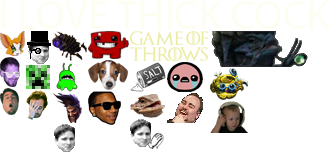
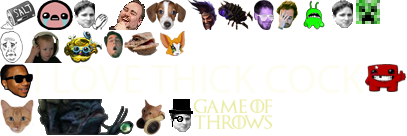
new emotes, now with added aslan, also bumped chat and disabled PICNIC

diff --git a/static/chat/css/style.min.css b/static/chat/css/style.min.css
@@ -1,1 +1,1 @@
-body#chat-embedded{margin:0;padding:0;height:100%;overflow:hidden;min-height:250px;min-width:300px}.chat-output .mCSB_container{margin-right:20px}.chat-output,.chat-lines{-webkit-backface-visibility:hidden;-webkit-perspective:1000;padding:0;margin:0}.chat-lines msg.emote{font-style:italic}.chat-frame{position:relative;width:100%;height:100%}.chat-lines>div{clear:both;word-wrap:break-word;padding-left:5px;padding-bottom:5px}.chat-lines>div.continue{margin-top:-3px}.chat-lines>div .continue{user-select:none;color:#222}.chat-lines>div i.continue{user-select:none;color:#222}.chat-lines>div.failed span{text-decoration:line-through;opacity:.5}.chat-lines a.user{font-weight:bold;cursor:pointer}.chat-lines hr{margin:8px 0}.chat-input,.chat-input-wrap,.chat-tools-wrap{height:30px}.chat-input{background:#2e2e2e;background:-moz-linear-gradient(top,rgba(46,46,46,1) 0,rgba(28,28,28,1) 100%);background:-webkit-gradient(linear,left top,left bottom,color-stop(0%,rgba(46,46,46,1)),color-stop(100%,rgba(28,28,28,1)));background:-webkit-linear-gradient(top,rgba(46,46,46,1) 0,rgba(28,28,28,1) 100%);background:-o-linear-gradient(top,rgba(46,46,46,1) 0,rgba(28,28,28,1) 100%);background:-ms-linear-gradient(top,rgba(46,46,46,1) 0,rgba(28,28,28,1) 100%);background:linear-gradient(to bottom,rgba(46,46,46,1) 0,rgba(28,28,28,1) 100%);width:100%;position:absolute;bottom:0;margin:5px 0 0 0}.chat-tools-wrap{position:absolute;right:0;top:0;margin:0;user-select:none;-moz-user-select:none;-webkit-user-select:none}.chat-input-wrap{margin:0;margin-right:90px;border-radius:0}.chat-input-control{padding:3px 0 0 5px;height:25px;margin:1px;border-radius:3px}.chat-input-control .input{background:0;resize:none;margin:0;padding:0;width:100%;border:0;border-radius:0;box-shadow:none;box-sizing:border-box}.chat-input-control .input:focus{box-shadow:none}.chat-tools-wrap>div{height:30px;overflow:hidden}.chat-tools-wrap .iconbtn{cursor:pointer;width:30px;height:30px;line-height:30px;float:left;display:block;text-align:center}.chat-tools-wrap .iconbtn:hover{background:rgba(255,255,255,0.15)}.chat-tools-wrap .iconbtn:hover i{opacity:.9}.chat-tools-wrap .iconbtn.active{background:rgba(255,255,255,0.25)}.chat-tools-wrap .iconbtn.active i{opacity:1}.chat .chat-lines i[class^="icon-"]{width:16px;line-height:16px;height:16px;margin:0;opacity:1}.chat .chat-lines i.icon-subscriber:hover,.chat .chat-lines i.icon-vip:hover,.chat .chat-lines i.icon-moderator:hover,.chat .chat-lines i.icon-administrator:hover,.chat .chat-lines i.icon-bot:hover,.chat .chat-lines i.icon-error:hover,.chat .chat-lines i.icon-info:hover,.chat .chat-lines i.icon-exclamation:hover,.chat .chat-lines i.icon-status:hover{background-position:top left}.chat .chat-lines i.icon-subscriber{background:url("../img/bobross.png") no-repeat bottom left}.chat .chat-lines i.icon-vip{background:url("../img/leaf.png") no-repeat bottom left}.chat .chat-lines i.icon-moderator{background:url("../img/weather-lightning.png") no-repeat bottom left}.chat .chat-lines i.icon-administrator{background:url("../img/crown.png") no-repeat bottom left}.chat .chat-lines i.icon-bot{background:url("../img/robot.png") no-repeat bottom left}.chat .chat-lines i.icon-error{background:url("../img/exclamation-red.png") no-repeat bottom left}.chat .chat-lines i.icon-info{background:url("../img/question-white.png") no-repeat bottom left}.chat .chat-lines i.icon-exclamation{background:url("../img/exclamation-white.png") no-repeat bottom left}.chat .chat-lines i.icon-status{background:url("../img/information.png") no-repeat bottom left}.chat-frame a.user{color:#a7a7a7}.chat-frame a.user:hover{color:#fafafa}.chat-frame a.subscriber{color:#488ce7}.chat-frame a.subscriber:hover{color:#6aa7f9}.chat-frame a.moderator{color:#429a2d}.chat-frame a.moderator:hover{color:#75e85a}.chat-frame a.vip{color:#cf31e2}.chat-frame a.vip:hover{color:#e564f4}.chat-frame a.admin{color:#b91010}.chat-frame a.admin:hover{color:#f00}.chat-frame a.bot{color:#4ba235}.chat-frame a.bot:hover{color:#7adb62}.chat-input-control input,.chat-lines{font-family:Helvetica,"Trebuchet MS",Verdana,sans-serif;font-size:13px;line-height:20px}.chat-lines>div .p-whisper{font-weight:bold}.chat-lines>div time{font-size:11px}.chat-lines a.externallink{color:#02c2ff}.chat-lines a.externallink:visited{color:#08c}.chat-lines a.externallink:hover,.chat-lines a.externallink:focus{color:#004d74}.chat .chat-lines time,.chat .user-msg i{display:none!important}.chat.chat-time .chat-lines time,.chat.chat-icons .user-msg i,.chat-lines i.icon-subscriber,.chat-lines i.icon-administrator{display:inline-block!important}.chat-theme-dark{background:#080808;border-radius:4px;box-shadow:inset 0 0 5px 5px rgba(0,0,0,0.25)}.chat-theme-dark .chat-input-wrap{border:0}.chat-theme-dark .chat-lines chat{color:#ddd}.chat-theme-dark .chat-lines>div time{color:#414141}.chat-theme-dark .chat-lines>div .p-whisper{color:#900}.chat-theme-dark .chat-lines>div.highlight{color:#fff371}.chat-theme-dark .chat-lines>div.action-msg,.chat-theme-dark .chat-lines>div.error-msg,.chat-theme-dark .chat-lines>div.status-msg,.chat-theme-dark .chat-lines>div.ui-msg{color:#777}.chat-theme-dark .chat-lines>div.own-msg{color:#eaeaea}.chat-theme-dark .chat-input-control{background:#090909;border:0}.chat-theme-dark .chat-input-control input{color:#9e9e9e;background:#090909;text-shadow:none}.chat-theme-dark input:input-placeholder{color:#222}.chat-theme-dark input:-moz-placeholder{color:#222}.chat-theme-dark input:-ms-input-placeholder{color:#222}.chat-theme-dark input::-webkit-input-placeholder{color:#222}.user-tools{width:100%;top:-5px;left:0}.user-tools>div{border-radius:4px;margin:5px 20px 5px 5px}.user-tools-wrap{margin-left:-5px}.user-tools-wrap>a{margin:0 5px}.chat-menu,.user-tools{opacity:0;transition:top .25s ease-out,bottom .25s ease-out,opacity .1s ease-in;position:absolute;font-size:12px}.chat-menu.active,.user-tools.active{opacity:1}.chat-menu{right:20px;bottom:35px;width:240px}.chat-menu.active{bottom:40px}.user-tools.active{top:0}.chat-menu h5,.user-tools h5{text-shadow:-1px -1px 0 rgba(0,0,0,0.25);user-select:none;-moz-user-select:none;-webkit-user-select:none;background:#4f4f4f;background:linear-gradient(to bottom,rgba(79,79,79,1) 0,rgba(46,46,46,1) 100%);border-bottom:1px solid #121212;margin:0;line-height:20px;display:block;padding:5px 10px;border-radius:4px 4px 0 0}.chat-menu .toolbar{width:100%;position:absolute;top:-31px;left:0}.chat-menu h5 .close,.user-tools h5 .close{margin-top:3px}.chat-menu li,.chat-menu label{font-size:12px}.chat-menu label:hover{color:white}.chat-menu .list-wrap,.chat-menu .list-wrap .scrollable{max-height:330px}.chat-menu .list-wrap,.user-tools>div{border-radius:0 0 4px 4px;background:rgba(25,25,25,0.9);padding:0}.chat-menu .list-wrap{margin-top:auto}.chat-menu .list-wrap .scrollable{overflow:hidden}.chat-menu ul,.user-tools .tools{padding:0 10px;margin:10px 0}.chat-menu ul>li:first-child h5{margin-top:0}.chat-menu ul li{text-overflow:ellipsis;overflow:hidden}#chat-user-list h6:first-child{margin-top:10px}#chat-user-list h6{font-weight:bold;margin:0 0 5px 5px}#chat-user-list hr{margin:5px 0}#chat-user-list ul{margin:0}#chat-user-list .user{cursor:pointer}.chat.focus-user .chat-lines>div.user-msg{opacity:.3}.chat.focus-user .chat-lines>div.user-msg.focused,.chat.focus-user .chat-lines>div.user-msg.highlight{opacity:1}.user-tools a#unignoreuser,.user-tools.user-ignored a#ignoreuser{display:none}.user-tools.user-ignored a#unignoreuser{display:inline-block}.chat-login-msg{padding:0 0 0 5px;line-height:25px;color:rgba(255,255,255,0.5);text-shadow:-1px -1px 0 rgba(0,0,0,0.25)}.chat-login-msg:hover{color:rgba(255,255,255,1);text-shadow:0 0 3px rgba(255,255,255,0.25)}.chat-emote{display:inline-block;position:relative;top:10px;margin:0 2px}.chat-emote.chat-emote-Dravewin{width:30px;height:30px;margin-top:-30px;background:url('../img/emoticons.png') no-repeat -52px -93px}.chat-emote.chat-emote-INFESTINY{width:35px;height:30px;margin-top:-30px;background:url('../img/emoticons.png') no-repeat -52px -31px}.chat-emote.chat-emote-FIDGETLOL{width:25px;height:25px;margin-top:-25px;background:url('../img/emoticons.png') no-repeat 0 -31px}.chat-emote.chat-emote-Hhhehhehe{width:35px;height:25px;margin-top:-25px;background:url('../img/emoticons.png') no-repeat -130px -93px}.chat-emote.chat-emote-GameOfThrows{width:79px;height:30px;margin-top:-30px;background:url('../img/emoticons.png') no-repeat -130px -31px}.chat-emote.chat-emote-WORTH{width:21px;height:30px;margin-top:-30px;background:url('../img/emoticons.png') no-repeat 0 -57px}.chat-emote.chat-emote-FeedNathan{width:39px;height:32px;margin-top:-32px;background:url('../img/emoticons.png') no-repeat -210px -101px}.chat-emote.chat-emote-Abathur{width:98px;height:36px;margin-top:-36px;background:url('../img/emoticons.png') no-repeat -210px -31px}.chat-emote.chat-emote-LUL{width:36px;height:30px;margin-top:-30px;background:url('../img/emoticons.png') no-repeat -167px -93px}.chat-emote.chat-emote-Heimerdonger{width:39px;height:32px;margin-top:-32px;background:url('../img/emoticons.png') no-repeat -210px -68px}.chat-emote.chat-emote-PICNIC{width:330px;height:30px;margin-top:-30px;background:url('../img/emoticons.png') no-repeat 0 0}.chat-emote.chat-emote-Kappa{width:25px;height:28px;margin-top:-28px;background:url('../img/emoticons.png') no-repeat -52px -124px}.chat-emote.chat-emote-Klappa{width:34px;height:30px;margin-top:-30px;background:url('../img/emoticons.png') no-repeat -130px -119px}.chat-emote.chat-emote-DappaKappa{width:25px;height:33px;margin-top:-33px;background:url('../img/emoticons.png') no-repeat -26px -31px}.chat-emote.chat-emote-BibleThump{width:36px;height:30px;margin-top:-30px;background:url('../img/emoticons.png') no-repeat -167px -62px}.chat-emote.chat-emote-BloodTrail{width:41px;height:28px;margin-top:-28px;background:url('../img/emoticons.png') no-repeat -88px -31px}.chat-emote.chat-emote-BrainSlug{width:30px;height:30px;margin-top:-30px;background:url('../img/emoticons.png') no-repeat -52px -62px}.chat-emote.chat-emote-FrankerZ{width:40px;height:30px;margin-top:-30px;background:url('../img/emoticons.png') no-repeat -88px -60px}.chat-emote.chat-emote-Kreygasm{width:19px;height:27px;margin-top:-27px;background:url('../img/emoticons.png') no-repeat 0 -88px}.chat-emote.chat-emote-PJSalt{width:36px;height:30px;margin-top:-30px;background:url('../img/emoticons.png') no-repeat -130px -62px}.chat-emote.chat-emote-SSSsss{width:24px;height:24px;margin-top:-24px;background:url('../img/emoticons.png') no-repeat -26px -65px}.chat-emote.chat-emote-FailFish{width:22px;height:30px;margin-top:-30px;background:url('../img/emoticons.png') no-repeat -26px -90px}.chat-emote.chat-emote-BasedGod{width:33px;height:34px;margin-top:-34px;background:url('../img/emoticons.png') no-repeat -88px -91px}
+body#chat-embedded{margin:0;padding:0;height:100%;overflow:hidden;min-height:250px;min-width:300px}.chat-output .mCSB_container{margin-right:20px}.chat-output,.chat-lines{-webkit-backface-visibility:hidden;-webkit-perspective:1000;padding:0;margin:0}.chat-lines msg.emote{font-style:italic}.chat-frame{position:relative;width:100%;height:100%}.chat-lines>div{clear:both;word-wrap:break-word;padding-left:5px;padding-bottom:5px}.chat-lines>div.continue{margin-top:-3px}.chat-lines>div .continue{user-select:none;color:#222}.chat-lines>div i.continue{user-select:none;color:#222}.chat-lines>div.failed span{text-decoration:line-through;opacity:.5}.chat-lines a.user{font-weight:bold;cursor:pointer}.chat-lines hr{margin:8px 0}.chat-input,.chat-input-wrap,.chat-tools-wrap{height:30px}.chat-input{background:#2e2e2e;background:-moz-linear-gradient(top,rgba(46,46,46,1) 0,rgba(28,28,28,1) 100%);background:-webkit-gradient(linear,left top,left bottom,color-stop(0%,rgba(46,46,46,1)),color-stop(100%,rgba(28,28,28,1)));background:-webkit-linear-gradient(top,rgba(46,46,46,1) 0,rgba(28,28,28,1) 100%);background:-o-linear-gradient(top,rgba(46,46,46,1) 0,rgba(28,28,28,1) 100%);background:-ms-linear-gradient(top,rgba(46,46,46,1) 0,rgba(28,28,28,1) 100%);background:linear-gradient(to bottom,rgba(46,46,46,1) 0,rgba(28,28,28,1) 100%);width:100%;position:absolute;bottom:0;margin:5px 0 0 0}.chat-tools-wrap{position:absolute;right:0;top:0;margin:0;user-select:none;-moz-user-select:none;-webkit-user-select:none}.chat-input-wrap{margin:0;margin-right:90px;border-radius:0}.chat-input-control{padding:3px 0 0 5px;height:25px;margin:1px;border-radius:3px}.chat-input-control .input{background:0;resize:none;margin:0;padding:0;width:100%;border:0;border-radius:0;box-shadow:none;box-sizing:border-box}.chat-input-control .input:focus{box-shadow:none}.chat-tools-wrap>div{height:30px;overflow:hidden}.chat-tools-wrap .iconbtn{cursor:pointer;width:30px;height:30px;line-height:30px;float:left;display:block;text-align:center}.chat-tools-wrap .iconbtn:hover{background:rgba(255,255,255,0.15)}.chat-tools-wrap .iconbtn:hover i{opacity:.9}.chat-tools-wrap .iconbtn.active{background:rgba(255,255,255,0.25)}.chat-tools-wrap .iconbtn.active i{opacity:1}.chat .chat-lines i[class^="icon-"]{width:16px;line-height:16px;height:16px;margin:0;opacity:1}.chat .chat-lines i.icon-subscriber:hover,.chat .chat-lines i.icon-vip:hover,.chat .chat-lines i.icon-moderator:hover,.chat .chat-lines i.icon-administrator:hover,.chat .chat-lines i.icon-bot:hover,.chat .chat-lines i.icon-error:hover,.chat .chat-lines i.icon-info:hover,.chat .chat-lines i.icon-exclamation:hover,.chat .chat-lines i.icon-status:hover{background-position:top left}.chat .chat-lines i.icon-subscriber{background:url("../img/bobross.png") no-repeat bottom left}.chat .chat-lines i.icon-vip{background:url("../img/leaf.png") no-repeat bottom left}.chat .chat-lines i.icon-moderator{background:url("../img/weather-lightning.png") no-repeat bottom left}.chat .chat-lines i.icon-administrator{background:url("../img/crown.png") no-repeat bottom left}.chat .chat-lines i.icon-bot{background:url("../img/robot.png") no-repeat bottom left}.chat .chat-lines i.icon-error{background:url("../img/exclamation-red.png") no-repeat bottom left}.chat .chat-lines i.icon-info{background:url("../img/question-white.png") no-repeat bottom left}.chat .chat-lines i.icon-exclamation{background:url("../img/exclamation-white.png") no-repeat bottom left}.chat .chat-lines i.icon-status{background:url("../img/information.png") no-repeat bottom left}.chat-frame a.user{color:#a7a7a7}.chat-frame a.user:hover{color:#fafafa}.chat-frame a.subscriber{color:#488ce7}.chat-frame a.subscriber:hover{color:#6aa7f9}.chat-frame a.moderator{color:#429a2d}.chat-frame a.moderator:hover{color:#75e85a}.chat-frame a.vip{color:#cf31e2}.chat-frame a.vip:hover{color:#e564f4}.chat-frame a.admin{color:#b91010}.chat-frame a.admin:hover{color:#f00}.chat-frame a.bot{color:#4ba235}.chat-frame a.bot:hover{color:#7adb62}.chat-input-control input,.chat-lines{font-family:Helvetica,"Trebuchet MS",Verdana,sans-serif;font-size:13px;line-height:20px}.chat-lines>div .p-whisper{font-weight:bold}.chat-lines>div time{font-size:11px}.chat-lines a.externallink{color:#02c2ff}.chat-lines a.externallink:visited{color:#08c}.chat-lines a.externallink:hover,.chat-lines a.externallink:focus{color:#004d74}.chat .chat-lines time,.chat .user-msg i{display:none!important}.chat.chat-time .chat-lines time,.chat.chat-icons .user-msg i,.chat-lines i.icon-subscriber,.chat-lines i.icon-administrator{display:inline-block!important}.chat-theme-dark{background:#080808;border-radius:4px;box-shadow:inset 0 0 5px 5px rgba(0,0,0,0.25)}.chat-theme-dark .chat-input-wrap{border:0}.chat-theme-dark .chat-lines chat{color:#ddd}.chat-theme-dark .chat-lines>div time{color:#414141}.chat-theme-dark .chat-lines>div .p-whisper{color:#900}.chat-theme-dark .chat-lines>div.highlight{color:#fff371}.chat-theme-dark .chat-lines>div.action-msg,.chat-theme-dark .chat-lines>div.error-msg,.chat-theme-dark .chat-lines>div.status-msg,.chat-theme-dark .chat-lines>div.ui-msg{color:#777}.chat-theme-dark .chat-lines>div.own-msg{color:#eaeaea}.chat-theme-dark .chat-input-control{background:#090909;border:0}.chat-theme-dark .chat-input-control input{color:#9e9e9e;background:#090909;text-shadow:none}.chat-theme-dark input:input-placeholder{color:#222}.chat-theme-dark input:-moz-placeholder{color:#222}.chat-theme-dark input:-ms-input-placeholder{color:#222}.chat-theme-dark input::-webkit-input-placeholder{color:#222}.user-tools{width:100%;top:-5px;left:0}.user-tools>div{border-radius:4px;margin:5px 20px 5px 5px}.user-tools-wrap{margin-left:-5px}.user-tools-wrap>a{margin:0 5px}.chat-menu,.user-tools{opacity:0;transition:top .25s ease-out,bottom .25s ease-out,opacity .1s ease-in;position:absolute;font-size:12px}.chat-menu.active,.user-tools.active{opacity:1}.chat-menu{right:20px;bottom:35px;width:240px}.chat-menu.active{bottom:40px}.user-tools.active{top:0}.chat-menu h5,.user-tools h5{text-shadow:-1px -1px 0 rgba(0,0,0,0.25);user-select:none;-moz-user-select:none;-webkit-user-select:none;background:#4f4f4f;background:linear-gradient(to bottom,rgba(79,79,79,1) 0,rgba(46,46,46,1) 100%);border-bottom:1px solid #121212;margin:0;line-height:20px;display:block;padding:5px 10px;border-radius:4px 4px 0 0}.chat-menu .toolbar{width:100%;position:absolute;top:-31px;left:0}.chat-menu h5 .close,.user-tools h5 .close{margin-top:3px}.chat-menu li,.chat-menu label{font-size:12px}.chat-menu label:hover{color:white}.chat-menu .list-wrap,.chat-menu .list-wrap .scrollable{max-height:330px}.chat-menu .list-wrap,.user-tools>div{border-radius:0 0 4px 4px;background:rgba(25,25,25,0.9);padding:0}.chat-menu .list-wrap{margin-top:auto}.chat-menu .list-wrap .scrollable{overflow:hidden}.chat-menu ul,.user-tools .tools{padding:0 10px;margin:10px 0}.chat-menu ul>li:first-child h5{margin-top:0}.chat-menu ul li{text-overflow:ellipsis;overflow:hidden}#chat-user-list h6:first-child{margin-top:10px}#chat-user-list h6{font-weight:bold;margin:0 0 5px 5px}#chat-user-list hr{margin:5px 0}#chat-user-list ul{margin:0}#chat-user-list .user{cursor:pointer}.chat.focus-user .chat-lines>div.user-msg{opacity:.3}.chat.focus-user .chat-lines>div.user-msg.focused,.chat.focus-user .chat-lines>div.user-msg.highlight{opacity:1}.user-tools a#unignoreuser,.user-tools.user-ignored a#ignoreuser{display:none}.user-tools.user-ignored a#unignoreuser{display:inline-block}.chat-login-msg{padding:0 0 0 5px;line-height:25px;color:rgba(255,255,255,0.5);text-shadow:-1px -1px 0 rgba(0,0,0,0.25)}.chat-login-msg:hover{color:rgba(255,255,255,1);text-shadow:0 0 3px rgba(255,255,255,0.25)}.chat-emote{display:inline-block;position:relative;top:10px;margin:0 2px}.chat-emote.chat-emote-Dravewin{width:30px;height:30px;margin-top:-30px;background:url('../img/emoticons.png') no-repeat -187px 0}.chat-emote.chat-emote-INFESTINY{width:35px;height:30px;margin-top:-30px;background:url('../img/emoticons.png') no-repeat -218px 0}.chat-emote.chat-emote-FIDGETLOL{width:25px;height:25px;margin-top:-25px;background:url('../img/emoticons.png') no-repeat -160px -31px}.chat-emote.chat-emote-Hhhehhehe{width:35px;height:25px;margin-top:-25px;background:url('../img/emoticons.png') no-repeat -124px -31px}.chat-emote.chat-emote-GameOfThrows{width:79px;height:30px;margin-top:-30px;background:url('../img/emoticons.png') no-repeat -194px -99px}.chat-emote.chat-emote-WORTH{width:21px;height:30px;margin-top:-30px;background:url('../img/emoticons.png') no-repeat -254px 0}.chat-emote.chat-emote-FeedNathan{width:39px;height:32px;margin-top:-32px;background:url('../img/emoticons.png') no-repeat -24px -31px}.chat-emote.chat-emote-Abathur{width:98px;height:36px;margin-top:-36px;background:url('../img/emoticons.png') no-repeat -36px -99px}.chat-emote.chat-emote-LUL{width:36px;height:30px;margin-top:-30px;background:url('../img/emoticons.png') no-repeat -109px 0}.chat-emote.chat-emote-Heimerdonger{width:39px;height:32px;margin-top:-32px;background:url('../img/emoticons.png') no-repeat -64px -31px}.chat-emote.chat-emote-PICNIC{width:330px;height:30px;margin-top:-30px;background:url('../img/emoticons.png') no-repeat -34px -64px}.chat-emote.chat-emote-ASLAN{width:35px;height:36px;margin-top:-36px;background:url('../img/emoticons.png') no-repeat 0 -99px}.chat-emote.chat-emote-DJAslan{width:32px;height:36px;margin-top:-36px;background:url('../img/emoticons.png') no-repeat -135px -99px}.chat-emote.chat-emote-SoSad{width:23px;height:32px;margin-top:-32px;background:url('../img/emoticons.png') no-repeat 0 -31px}.chat-emote.chat-emote-Kappa{width:25px;height:28px;margin-top:-28px;background:url('../img/emoticons.png') no-repeat -330px 0}.chat-emote.chat-emote-Klappa{width:34px;height:30px;margin-top:-30px;background:url('../img/emoticons.png') no-repeat -74px 0}.chat-emote.chat-emote-DappaKappa{width:25px;height:33px;margin-top:-33px;background:url('../img/emoticons.png') no-repeat -168px -99px}.chat-emote.chat-emote-BibleThump{width:36px;height:30px;margin-top:-30px;background:url('../img/emoticons.png') no-repeat -37px 0}.chat-emote.chat-emote-BloodTrail{width:41px;height:28px;margin-top:-28px;background:url('../img/emoticons.png') no-repeat -365px -64px}.chat-emote.chat-emote-BrainSlug{width:30px;height:30px;margin-top:-30px;background:url('../img/emoticons.png') no-repeat -299px 0}.chat-emote.chat-emote-FrankerZ{width:40px;height:30px;margin-top:-30px;background:url('../img/emoticons.png') no-repeat -146px 0}.chat-emote.chat-emote-Kreygasm{width:19px;height:27px;margin-top:-27px;background:url('../img/emoticons.png') no-repeat -104px -31px}.chat-emote.chat-emote-PJSalt{width:36px;height:30px;margin-top:-30px;background:url('../img/emoticons.png') no-repeat 0 0}.chat-emote.chat-emote-SSSsss{width:24px;height:24px;margin-top:-24px;background:url('../img/emoticons.png') no-repeat -356px 0}.chat-emote.chat-emote-FailFish{width:22px;height:30px;margin-top:-30px;background:url('../img/emoticons.png') no-repeat -276px 0}.chat-emote.chat-emote-BasedGod{width:33px;height:34px;margin-top:-34px;background:url('../img/emoticons.png') no-repeat 0 -64px}

diff --git a/static/chat/css/emoticons.css b/static/chat/css/emoticons.css
@@ -15,159 +15,180 @@
 	width: 30px;
 	height: 30px;
 	margin-top: -30px;
-	background: url('../img/emoticons.png') no-repeat -52px -93px;
+	background: url('../img/emoticons.png') no-repeat -187px 0;
 }
 
 .chat-emote.chat-emote-INFESTINY {
 	width: 35px;
 	height: 30px;
 	margin-top: -30px;
-	background: url('../img/emoticons.png') no-repeat -52px -31px;
+	background: url('../img/emoticons.png') no-repeat -218px 0;
 }
 
 .chat-emote.chat-emote-FIDGETLOL {
 	width: 25px;
 	height: 25px;
 	margin-top: -25px;
-	background: url('../img/emoticons.png') no-repeat 0 -31px;
+	background: url('../img/emoticons.png') no-repeat -160px -31px;
 }
 
 .chat-emote.chat-emote-Hhhehhehe {
 	width: 35px;
 	height: 25px;
 	margin-top: -25px;
-	background: url('../img/emoticons.png') no-repeat -130px -93px;
+	background: url('../img/emoticons.png') no-repeat -124px -31px;
 }
 
 .chat-emote.chat-emote-GameOfThrows {
 	width: 79px;
 	height: 30px;
 	margin-top: -30px;
-	background: url('../img/emoticons.png') no-repeat -130px -31px;
+	background: url('../img/emoticons.png') no-repeat -194px -99px;
 }
 
 .chat-emote.chat-emote-WORTH {
 	width: 21px;
 	height: 30px;
 	margin-top: -30px;
-	background: url('../img/emoticons.png') no-repeat 0 -57px;
+	background: url('../img/emoticons.png') no-repeat -254px 0;
 }
 
 .chat-emote.chat-emote-FeedNathan {
 	width: 39px;
 	height: 32px;
 	margin-top: -32px;
-	background: url('../img/emoticons.png') no-repeat -210px -101px;
+	background: url('../img/emoticons.png') no-repeat -24px -31px;
 }
 
 .chat-emote.chat-emote-Abathur {
 	width: 98px;
 	height: 36px;
 	margin-top: -36px;
-	background: url('../img/emoticons.png') no-repeat -210px -31px;
+	background: url('../img/emoticons.png') no-repeat -36px -99px;
 }
 
 .chat-emote.chat-emote-LUL {
 	width: 36px;
 	height: 30px;
 	margin-top: -30px;
-	background: url('../img/emoticons.png') no-repeat -167px -93px;
+	background: url('../img/emoticons.png') no-repeat -109px 0;
 }
 
 .chat-emote.chat-emote-Heimerdonger {
 	width: 39px;
 	height: 32px;
 	margin-top: -32px;
-	background: url('../img/emoticons.png') no-repeat -210px -68px;
+	background: url('../img/emoticons.png') no-repeat -64px -31px;
 }
 
 .chat-emote.chat-emote-PICNIC {
 	width: 330px;
 	height: 30px;
 	margin-top: -30px;
-	background: url('../img/emoticons.png') no-repeat 0 0;
+	background: url('../img/emoticons.png') no-repeat -34px -64px;
+}
+
+.chat-emote.chat-emote-ASLAN {
+	width: 35px;
+	height: 36px;
+	margin-top: -36px;
+	background: url('../img/emoticons.png') no-repeat 0 -99px;
+}
+
+.chat-emote.chat-emote-DJAslan {
+	width: 32px;
+	height: 36px;
+	margin-top: -36px;
+	background: url('../img/emoticons.png') no-repeat -135px -99px;
+}
+
+.chat-emote.chat-emote-SoSad {
+	width: 23px;
+	height: 32px;
+	margin-top: -32px;
+	background: url('../img/emoticons.png') no-repeat 0 -31px;
 }
 
 .chat-emote.chat-emote-Kappa {
 	width: 25px;
 	height: 28px;
 	margin-top: -28px;
-	background: url('../img/emoticons.png') no-repeat -52px -124px;
+	background: url('../img/emoticons.png') no-repeat -330px 0;
 }
 
 .chat-emote.chat-emote-Klappa {
 	width: 34px;
 	height: 30px;
 	margin-top: -30px;
-	background: url('../img/emoticons.png') no-repeat -130px -119px;
+	background: url('../img/emoticons.png') no-repeat -74px 0;
 }
 
 .chat-emote.chat-emote-DappaKappa {
 	width: 25px;
 	height: 33px;
 	margin-top: -33px;
-	background: url('../img/emoticons.png') no-repeat -26px -31px;
+	background: url('../img/emoticons.png') no-repeat -168px -99px;
 }
 
 .chat-emote.chat-emote-BibleThump {
 	width: 36px;
 	height: 30px;
 	margin-top: -30px;
-	background: url('../img/emoticons.png') no-repeat -167px -62px;
+	background: url('../img/emoticons.png') no-repeat -37px 0;
 }
 
 .chat-emote.chat-emote-BloodTrail {
 	width: 41px;
 	height: 28px;
 	margin-top: -28px;
-	background: url('../img/emoticons.png') no-repeat -88px -31px;
+	background: url('../img/emoticons.png') no-repeat -365px -64px;
 }
 
 .chat-emote.chat-emote-BrainSlug {
 	width: 30px;
 	height: 30px;
 	margin-top: -30px;
-	background: url('../img/emoticons.png') no-repeat -52px -62px;
+	background: url('../img/emoticons.png') no-repeat -299px 0;
 }
 
 .chat-emote.chat-emote-FrankerZ {
 	width: 40px;
 	height: 30px;
 	margin-top: -30px;
-	background: url('../img/emoticons.png') no-repeat -88px -60px;
+	background: url('../img/emoticons.png') no-repeat -146px 0;
 }
 
 .chat-emote.chat-emote-Kreygasm {
 	width: 19px;
 	height: 27px;
 	margin-top: -27px;
-	background: url('../img/emoticons.png') no-repeat 0 -88px;
+	background: url('../img/emoticons.png') no-repeat -104px -31px;
 }
 
 .chat-emote.chat-emote-PJSalt {
 	width: 36px;
 	height: 30px;
 	margin-top: -30px;
-	background: url('../img/emoticons.png') no-repeat -130px -62px;
+	background: url('../img/emoticons.png') no-repeat 0 0;
 }
 
 .chat-emote.chat-emote-SSSsss {
 	width: 24px;
 	height: 24px;
 	margin-top: -24px;
-	background: url('../img/emoticons.png') no-repeat -26px -65px;
+	background: url('../img/emoticons.png') no-repeat -356px 0;
 }
 
 .chat-emote.chat-emote-FailFish {
 	width: 22px;
 	height: 30px;
 	margin-top: -30px;
-	background: url('../img/emoticons.png') no-repeat -26px -90px;
+	background: url('../img/emoticons.png') no-repeat -276px 0;
 }
 
 .chat-emote.chat-emote-BasedGod {
 	width: 33px;
 	height: 34px;
 	margin-top: -34px;
-	background: url('../img/emoticons.png') no-repeat -88px -91px;
+	background: url('../img/emoticons.png') no-repeat 0 -64px;
 }

diff --git a/scripts/emotes/preview.html b/scripts/emotes/preview.html
@@ -15,7 +15,7 @@
 </head>
 <body>
 <br/><br/>
-<div class="chat-emote chat-emote-Draven" title="Draven"></div>
+<div class="chat-emote chat-emote-Dravewin" title="Dravewin"></div>
 <div class="chat-emote chat-emote-INFESTINY" title="INFESTINY"></div>
 <div class="chat-emote chat-emote-FIDGETLOL" title="FIDGETLOL"></div>
 <div class="chat-emote chat-emote-Hhhehhehe" title="Hhhehhehe"></div>
@@ -26,6 +26,9 @@
 <div class="chat-emote chat-emote-LUL" title="LUL"></div>
 <div class="chat-emote chat-emote-Heimerdonger" title="Heimerdonger"></div>
 <div class="chat-emote chat-emote-PICNIC" title="PICNIC"></div>
+<div class="chat-emote chat-emote-ASLAN" title="ASLAN"></div>
+<div class="chat-emote chat-emote-DJAslan" title="DJAslan"></div>
+<div class="chat-emote chat-emote-SoSad" title="SoSad"></div>
 <div class="chat-emote chat-emote-Kappa" title="Kappa"></div>
 <div class="chat-emote chat-emote-Klappa" title="Klappa"></div>
 <div class="chat-emote chat-emote-DappaKappa" title="DappaKappa"></div>

diff --git a/static/chat/js/gui.js b/static/chat/js/gui.js
@@ -1,6 +1,6 @@
 
 // Need a better place for these
-var emoticons = ["Dravewin", "INFESTINY", "FIDGETLOL", "Hhhehhehe", "GameOfThrows", "WORTH", "FeedNathan", "Abathur", "LUL", "Heimerdonger", "PICNIC", "Kappa", "Klappa", "DappaKappa", "BibleThump", "BloodTrail", "BrainSlug", "FrankerZ", "Kreygasm", "PJSalt", "SSSsss", "FailFish", "BasedGod"];
+var emoticons = ["Dravewin", "INFESTINY", "FIDGETLOL", "Hhhehhehe", "GameOfThrows", "WORTH", "FeedNathan", "Abathur", "LUL", "Heimerdonger", "ASLAN", "DJAslan", "SoSad", "Kappa", "Klappa", "DappaKappa", "BibleThump", "BloodTrail", "BrainSlug", "FrankerZ", "Kreygasm", "PJSalt", "SSSsss", "FailFish", "BasedGod"];
 var emoteregex = new RegExp('\\b(?:'+emoticons.join('|')+')\\b');
 var linkregex = /(\b(https?|ftp):\/\/[-A-Z0-9+&@#\/%?=~_|!:,.;]*[-A-Z0-9+&@#\/%=~_|])/gim;
 

diff --git a/scripts/emotes/generateemotes.php b/scripts/emotes/generateemotes.php
@@ -21,6 +21,9 @@ $customemotes = array(
 	'LUL',
 	'Heimerdonger',
 	'PICNIC',
+	'ASLAN',
+	'DJAslan',
+	'SoSad',
 );
 $twitchemotes = array(
 	'Kappa',
